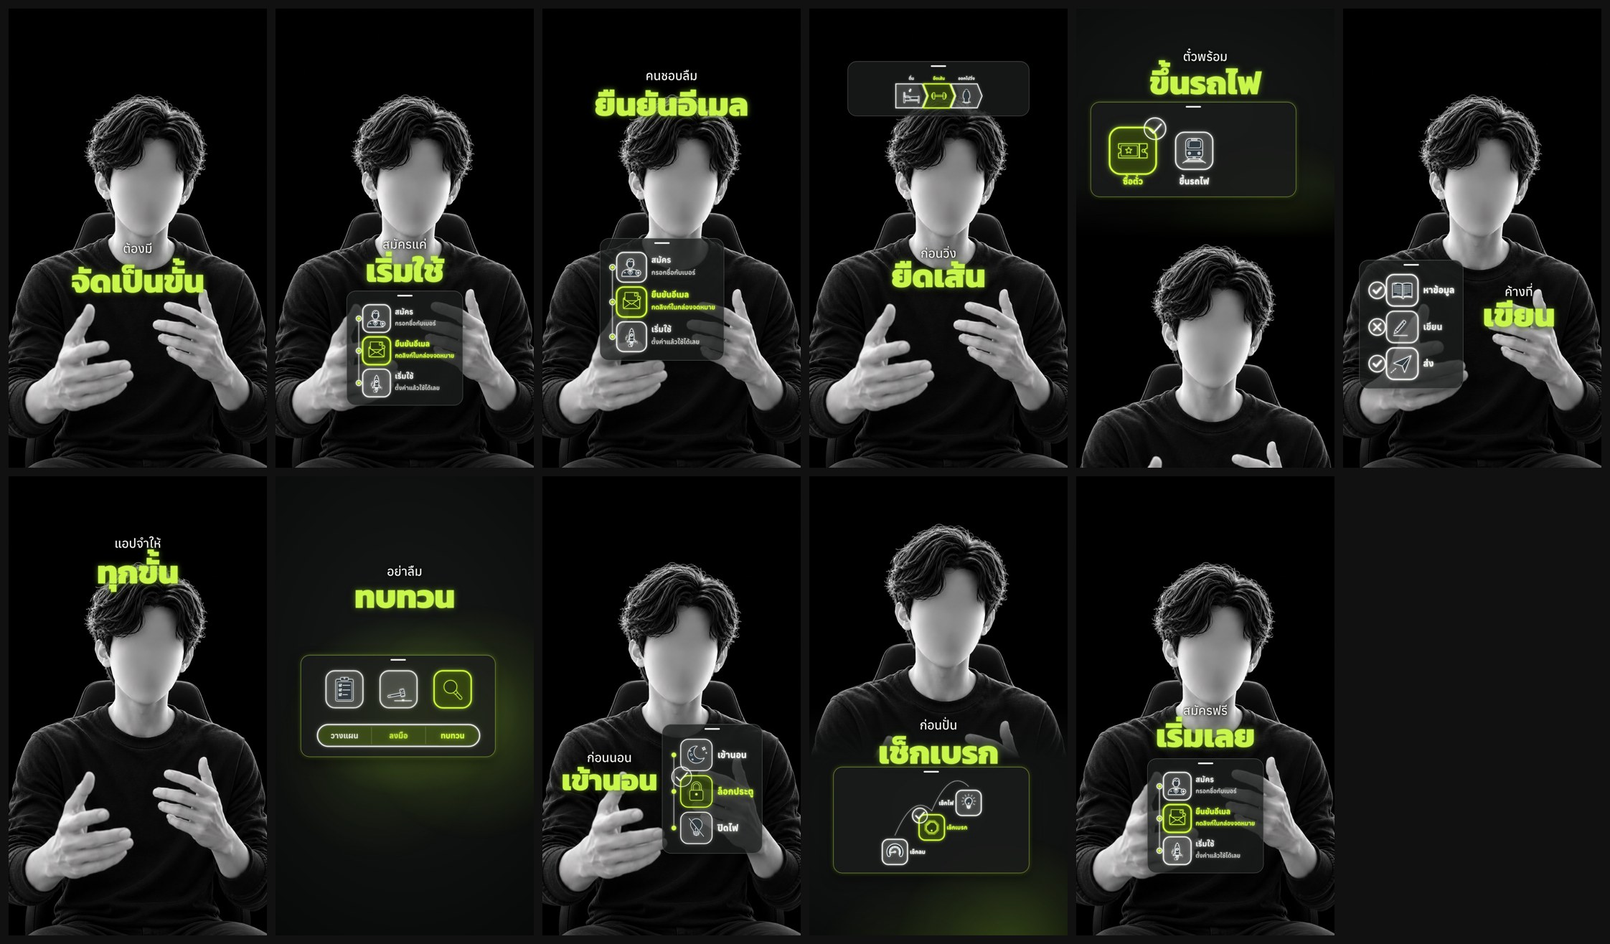
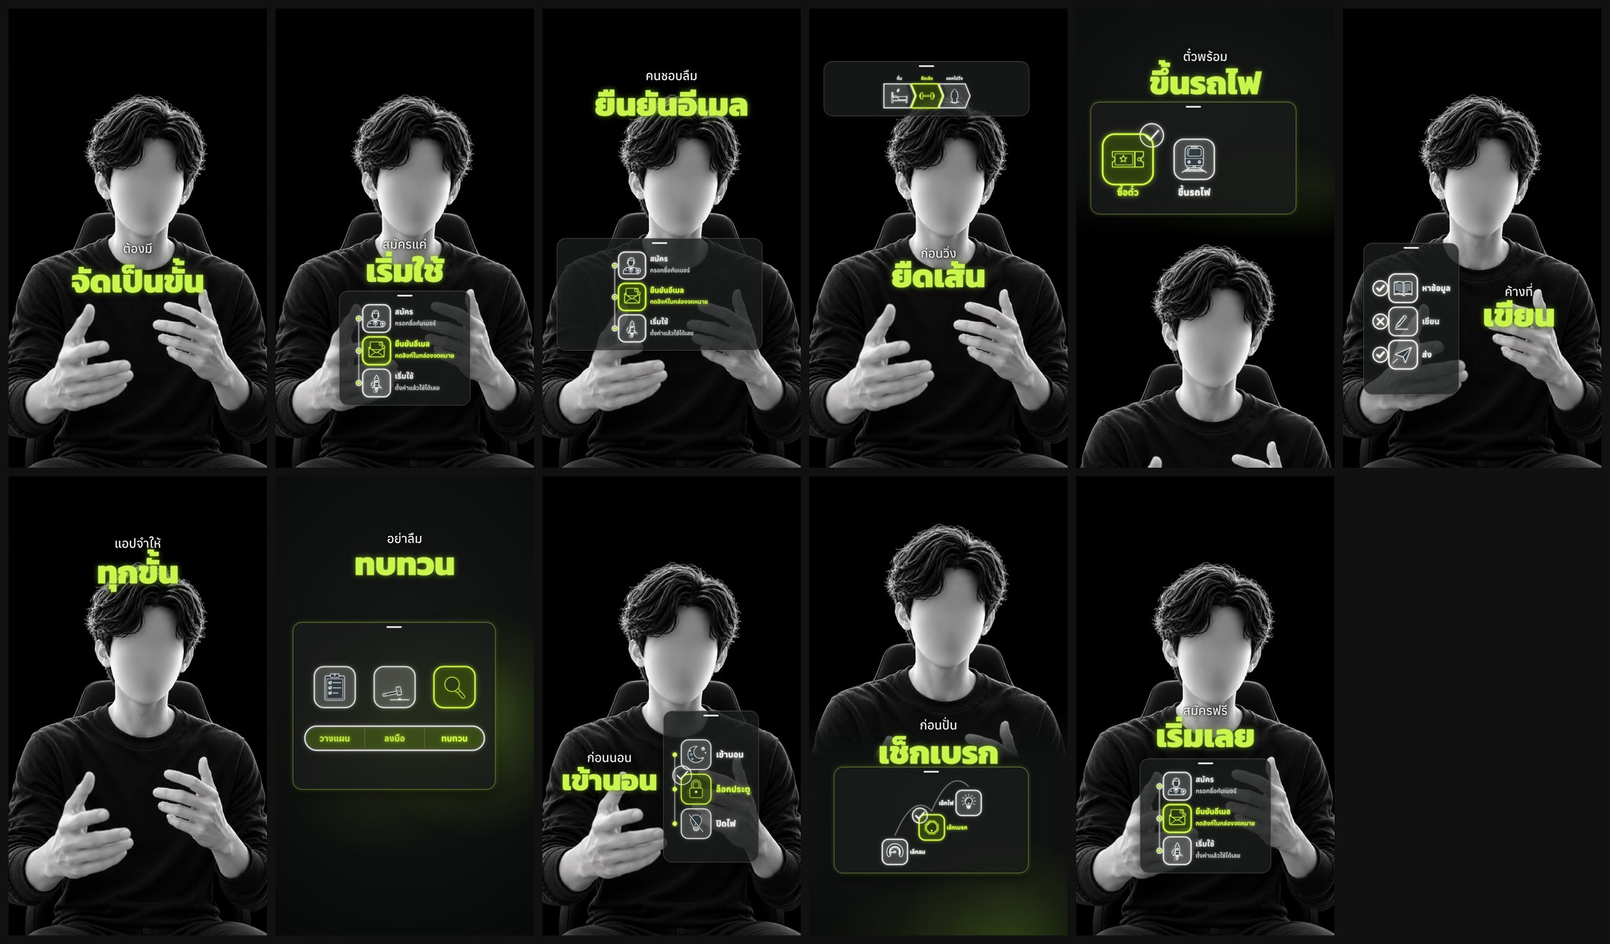
CutPack lime: the card is the standard size exactly (corner scaling, padding inside), no picture-size rule; skill files, still sheet, card_sizes tool
Claude-Session: https://claude.ai/code/session_014abtgtcHE3XvfD3rToZist

diff --git a/cutpack/engine/uni/styles/lime.js b/cutpack/engine/uni/styles/lime.js
@@ -60,7 +60,7 @@ const LIME_HIGH = {talk_top: ['lead', 'key'], big: ['lead', 'key']};
 const LIME_ANCHOR = {hands: 'top', cta: 'top', big: 'top', screen: 'top', split_top: 'top', split_bottom: 'top', top: 'bottom', side_l: 'center', side_r: 'center'};
 /* THE 6 STANDARD MOTION-GRAPHIC SIZES (Friend 2026-11-19, common.md 4.1 · lime.md 16: "ผมเลยอยากกำหนดมาตรฐานขนาดของ motion graphic" ·
    "เราจะฟิกขนาดของ motion graphic เฉยๆเราไม่ได้จะมาดีไซน์สไตล์ใหม่"): the picture is one of the standard sizes, scaled from the corner between
-   65% and 100% to the room this face leaves (the first size of the screen's order that fits); the card is the picture + its padding, at the
+   65% and 100% to the room this face leaves (the first size of the screen's order that fits); the card IS that size (padding inside), at the
    screen's old anchor; under 65% for every size of the order = the screen does not come up in this clip (limeRoom). The dark screen's card sits
    in the middle of the screen with its words moved up, the key word still 150 over the card (Friend: "ฉากนี้ต้องอยู่กึ่งกลางจอ ตรงกลางเลยนะ ...
    เว้นระยะห่างกับซับไตเติ้ลเหมือนเดิม" → "แบบนี้โอเคครับ"). */
@@ -68,17 +68,16 @@ const LIME_STD = {1: [860, 230], 2: [860, 470], 3: [560, 490], 4: [400, 635], 5:
 const LIME_ORDER = {hands: [3, 2, 1], cta: [3, 2, 1], big: [2, 1], top: [2, 3, 1], split_top: [2, 3], side_l: [4], side_r: [4], split_bottom: [2, 1]};
 const LIME_MIN = .65;
 function limeShape(L, ar, name) {
+  /* the CARD is the standard size scaled from the corner (its shape exact), the card's padding inside it, the picture in the padding at its own
+     shape (Friend 2026-11-19: "แบบนี้มันไม่ได้ย่อตรงมุมนี่" · "ขนาดของการ์ดอ่ะมันก็คือ motion graphic ในสไตล์ที่ไม่มีการ์ด" · "การ์ดดูโล่งได้
+     เพราะเดี๋ยวจะทำภาพชุดใหม่" · "แก้ได้ครับ"); returns null when no size of the screen's order reaches 65% here */
   if (!L.card) return L;
-  /* the picture inside the standard box at its own shape, the card around the picture (lime.md 4.3, final 2026-11-18: the card follows the picture) */
-  const card = (k, s) => { const [W, H] = LIME_STD[k], bw = W * s, bh = H * s, r = ar || bw / bh, pw = r > bw / bh ? bw : bh * r, ph = r > bw / bh ? bw / r : bh;
-    return [Math.round(pw + 52), Math.round(ph + 70), Math.round(bw + 52), Math.round(bh + 70), Math.sqrt(pw * ph / (W * H))]; };   // the last: how big the PICTURE is against the full size
+  const size = (k, s) => LIME_STD[k].map(v => Math.round(v * s));
   if (name === 'screen') {                                        // 5 (wide) or 6 (tall) by the picture's shape, in the middle of the screen
-    const near = Math.abs(Math.log((ar || 1.21) / 1.21)) <= Math.abs(Math.log((ar || 1.21) / .89)) ? 5 : 6;
-    const gap = L.card[1] - (L.key.y + 95), lk = L.key.y - L.lead.y, maxH = 2 * (960 - (220 + 40 + lk + 95 + gap));   // the words never under the search bar
-    const k = [near, 11 - near].find(k => { const [W, H] = LIME_STD[k], s = Math.min(1, (860 - 52) / W, (maxH - 70) / H); return s >= LIME_MIN && card(k, s)[4] >= LIME_MIN; });
-    if (!k) return null;
-    const [W, H] = LIME_STD[k], s = Math.min(1, (860 - 52) / W, (maxH - 70) / H);
-    const [cw, ch] = card(k, s), ny = Math.round(960 - ch / 2);   // the card's own middle on the screen's middle
+    const k = Math.abs(Math.log((ar || 1.21) / 1.21)) <= Math.abs(Math.log((ar || 1.21) / .89)) ? 5 : 6, [W, H] = LIME_STD[k];
+    const gap = L.card[1] - (L.key.y + 95), lk = L.key.y - L.lead.y, maxH = 2 * (960 - (220 + 40 + lk + 95 + gap));   // 100%, smaller only when the words would reach the search bar
+    const s = Math.min(1, 860 / W, maxH / H); if (s < LIME_MIN) return null;
+    const [cw, ch] = size(k, s), ny = Math.round(960 - ch / 2);
     L.card = [Math.round(Math.min(Math.max(540 - cw / 2, 60), 920 - cw)), ny, cw, ch]; L.stage = limeInner(L.card);
     L.key.y = ny - gap - 95; L.lead.y = L.key.y - lk; if (L.bloom) L.bloom = [540, 960]; L.std = [k, s];
     return L;
@@ -90,12 +89,10 @@ function limeShape(L, ar, name) {
   if (name === 'side_l') X1 = Math.min(920, L.lead.x - L.lead.maxW / 2 - 20);   // not into the words beside the card
   if (name === 'side_r') X0 = Math.max(60, L.lead.x + L.lead.maxW / 2 + 20);
   for (const k of LIME_ORDER[name] ?? [2]) {
-    const [W, H] = LIME_STD[k], s = Math.min(1, (X1 - X0 - 52) / W, (Y1 - Y0 - 70) / H);
+    const [W, H] = LIME_STD[k], s = Math.min(1, (X1 - X0) / W, (Y1 - Y0) / H);
     if (s < LIME_MIN) continue;
-    const [cw, ch, bw, bh, big] = card(k, s), cx = x + w / 2;
-    if (big < LIME_MIN) continue;                                   // a picture of another shape would come out under 65% of this size
-    const by = a === 'bottom' ? Y1 - bh : Y0, ny = a === 'bottom' ? by + bh - ch : a === 'center' ? by + (bh - ch) / 2 : by;   // at the screen's anchor inside the box
-    L.card = [Math.round(Math.min(Math.max(cx - cw / 2, X0), X1 - cw)), Math.round(ny), cw, ch]; L.stage = limeInner(L.card);
+    const [cw, ch] = size(k, s), cx = x + w / 2;
+    L.card = [Math.round(Math.min(Math.max(cx - cw / 2, X0), X1 - cw)), Math.round(a === 'bottom' ? Y1 - ch : Y0), cw, ch]; L.stage = limeInner(L.card);
     L.std = [k, s];
     return L;
   }

diff --git a/cutpack/engine/uni/tools/card_sizes.js b/cutpack/engine/uni/tools/card_sizes.js
@@ -15,7 +15,7 @@ const STD = {1: [860, 230], 2: [860, 470], 3: [560, 490], 4: [400, 635], 5: [860
       const q = c?.getBoundingClientRect(); return {std: c?.dataset.std ?? null, card: c ? R(c) : null, stage: R(st), xy: q ? [q.left, q.top] : null}; }, t0);
     const [k, s] = (r.std ?? '').split(':'), box = k ? STD[k].map(v => Math.round(v * s)) : null;
     if (process.argv[3] && k) {
-      const [cw, ch] = r.card, [bw, bh] = [box[0] + 52, box[1] + 70], [x, y] = r.xy, a = name === 'top' ? 'bottom' : /side|screen/.test(name) ? 'center' : 'top';
+      const [cw, ch] = r.card, [bw, bh] = box, [x, y] = r.xy, a = name === 'top' ? 'bottom' : /side|screen/.test(name) ? 'center' : 'top';
       const bx = x + cw / 2 - bw / 2, by = a === 'bottom' ? y + ch - bh : a === 'center' ? y + ch / 2 - bh / 2 : y;
       await p.evaluate(([bx, by, bw, bh, x, y, cw, ch, lab]) => { document.querySelectorAll('.cs-mark').forEach(e => e.remove());
         const d = (css, t = '') => { const e = document.createElement('div'); e.className = 'cs-mark'; e.style.cssText = 'position:fixed;z-index:999;box-sizing:border-box;' + css; e.textContent = t; document.body.appendChild(e); };

diff --git a/cutpack/DECISIONS.md b/cutpack/DECISIONS.md
@@ -463,6 +463,7 @@
             - **Friend 2026-11-19: "ข้อ 2 ถ้าทรัพย์[ซับ]มันจะไปชนแถบค้นหาก็ลดขนาดของการ์ดก็ได้" · "ส่วนข้อ 1 ผมงง"** → ฉาก screen: การ์ดกลางจอ ซับห่างเท่าเดิม · 100% ถ้าซับไม่ชนแถบค้นหา · ถ้าชน ลดขนาดการ์ด (ตรงมุม) จนซับพอดี · ข้อ 1 Claude อธิบายใหม่
             - **Friend 2026-11-19 (ตอบข้อ 1): "การ์ดดูโล่งได้ เพราะเดี๋ยวจะทำภาพชุดใหม่"** → Claude ตีความ = เอากฎ "ภาพจริงต้องได้ 65%" ออก (เหลือ 65% ของการ์ด) · ทวนให้ Friend ในข้อความ · รอสั่งแก้
             - **Friend 2026-11-19: "อธิบายข้อ 4 ครับผมงง"** (ขอบการ์ดอยู่ข้างในกล่องมาตรฐาน) → Claude อธิบาย · **"ส่งรูปให้ดูหน่อย"** → ภาพก่อน/หลัง (ขนาด 2) · **"ลองทำรูปแบบเอาโมชั่นกราฟฟิกจริงๆใส่เข้าไปข้างในด้วย"** → ภาพนิ่ง 12 รูปจากสำเนาโค้ด (การ์ด = กล่องมาตรฐานเป๊ะ · ขอบข้างใน · ไม่มีกฎภาพ 65% · screen กลางจอ ย่อเมื่อซับชนแถบค้นหา) · ผลบนภาพคนจำลอง: hands ขนาด 3 66% · cta ขนาด 3 65% · split_top ขนาด 2 100% · side ขนาด 4 88% · split_bottom ขนาด 2 95% · screen ขนาด 5 99% · ขนาด 6 73% · big top talk_top ไม่ขึ้น · repo ยังไม่แก้
+            - **Friend 2026-11-19 (ภาพก่อน/หลังเรื่องขอบการ์ด ใส่ motion graphic จริง): "แก้ได้ครับ"** → ลงโค้ด `styles/lime.js`: การ์ด = กล่องมาตรฐานเป๊ะ (ลากมุม) ขอบอยู่ข้างใน · เอากฎภาพ 65% ออก · screen กลางจอ 100% ย่อเมื่อซับชนแถบค้นหา · แก้ไฟล์สกิล · ทดสอบคลิปที่ 3 ส่งเป็นรูป · **ทำแล้ว:** ภาพนิ่ง 11 ok 0 หลุด · คลิปที่ 3 (seed 786722 คำตอบ AI เดิม) การ์ดเท่ากล่องทุกใบ ±1 px · screen 99% · ขนาด 6 73% · side 83–100% · hands/cta 79–85% · `lime.md` 4.3 16 · `common.md` 4.1 · `02_lime_final.jpg` ใหม่ · `card_sizes.js` กรอบ = การ์ด
           - **Friend 2026-11-19 (หลังคลิปที่ 3 · Claude สรุปเรื่องที่รอ 4 ข้อ: hook 3 วินาทีเป็นกฎไหม · เสียงประกอบ −6 dB เป็นค่าใหม่ไหม · 5 ขนาด · final สไตล์ไหนต่อ): "ข้อ 1 2 4 เอาไว้ก่อนครับมาคุยเรื่องข้อ 3 กันดีกว่า"** → พัก hook 3 วินาที · เสียงประกอบ · final สไตล์ถัดไป · คุยเรื่อง 5 ขนาดของ motion graphic ก่อน (จดตามที่ Friend พิมพ์ ยังไม่แก้)
           - **คลิปเปรียบเทียบ (Friend 2026-11-19): "เอาคลิปที่ผมพูดว่าน่าจะมีหลายคนที่ติดกับดักเหมือนผม ทำเป็นคลิปเปรียบเทียบ raw กับ AI Edit" · "ห้ามใส่ชื่อ cutpack" · "Raw อยู่ด้านซ้ายขนาดเล็กกว่า ai edit อยู่ด้านขวาขนาดใหญ่กว่า" · "คำว่า AI edit ทำให้เด่นหน่อยนะ" · "และคลิป compare แบบนี้ก็ทำให้เข้า theme กับสไตล์ด้วย"** → คลิปที่ 2 (93.7 วินาที) · AI Edit = รุ่นล่าสุดที่ Friend สั่งเรนเดอร์ (ภาพขึ้นใน 3 วินาทีแรก) · ธีมเขียวมะนาว (พื้นถ่าน แสงเขียว การ์ดมีขีดจับ คำ "AI EDIT" Kanit หนาสีเขียวเรือง) · 1080 × 1920 · วิดีโอทั้งสองอยู่ใน x 60–920 (ไม่เข้าโซนปุ่ม) · เสียงจาก AI Edit · ไม่มีชื่อ CutPack · ทำนอก repo (คลิปของ Friend) · **ผล:** Raw 284 × 504 ในการ์ดถ่าน (x 60–372) ป้าย "Raw" Anuphan 600 54 px ขาว · AI Edit 496 × 882 ในการ์ดขอบเขียวเรือง (x 396–920) ป้าย "AI EDIT" Kanit 800 134 px `#C9F64B` เรืองเขียว · พื้นถ่าน + แสงเขียว 2 ดวง (นิ่ง) แบบเขียวมะนาว · มุมวิดีโอมน 24 · 93.7 วินาที 31 MB ส่งแล้ว · ทำด้วย HTML (playwright) + ffmpeg ใน scratchpad
         - **คลิปที่ 2 ของเขียวมะนาว (Friend 2026-11-19 ส่งลิงก์ Drive `1EmgGYG8v_9GILyt8vxDqmLTDX1r-81GV` + บทพร้อมเวลา 95 บรรทัด "00:00 ผมคิดว่า" … "01:32 ให้ทุกคนฟังนะครับ"): "ตัดต่อคลิปนี้ตาม skill เขียวมะนาว" · "เสร็จแล้วส่งไฟล์ HQ ให้ผมด้วยนะครับ"** → คำสั่งตรงให้ตัดต่อและเรนเดอร์ (ไม่ต้องส่งรูปก่อน) · ทำตาม `common.md` ขั้น 1–8 + `lime.md` final ไม่แก้โค้ด · คลิป 93.7 วินาที 1080 × 1920 60 fps (MOV) · คลิปและบทอยู่ใน scratchpad เท่านั้น (LESSONS 30) · ส่งไฟล์ HQ ทางแชท (`pipeline.sh hq`) · **ผล:** seed 239287 · 16 ภาพ 57% ของคลิป · จอ ข ทั้งหมด (หน้าใหญ่ จอ ก วางไม่ได้) · ภาพเฉลี่ย 15% · 0 หลุดโซน · −14.1 LUFS · ส่งไฟล์ HQ 91 MB แล้ว · **Claude ตัดสินระหว่างทำ (บอก Friend):** แก้ซับของ Haiku 3 จุดที่คำท้ายประโยคหลุดบรรทัด (LESSONS 73)

diff --git a/cutpack/style-rules/lime.md b/cutpack/style-rules/lime.md
@@ -79,8 +79,9 @@
 - เปิดคลิป: สไตล์นี้ยังไม่มี `openFace` → ประเด็นแรกเป็นคนพูดเสมอ (`common.md` ข้อ 3)
 
 ### 4.3 การ์ดตามทรงของภาพ (`limeShape`, Friend: "ทำให้ความกว้างน้อยลงแล้วก็ทำให้ความสูงสูงขึ้น ... อยากให้แก้ระบบด้วยเลย")
-- **2026-11-19: กล่องของภาพ = ขนาดมาตรฐาน (หัวข้อ 16) × 65–100%** ตามที่ว่างจากจุดเกาะ ถึง y 1660 (จอแบ่งบน: ถึงเส้นแบ่ง − 12 · `top`: ระหว่าง 220 กับห้องเหนือหัวของ `limeFit` · `side`: ไม่ล้ำซับข้างการ์ด) ใน x 60–920
-- การ์ดจริง = ภาพทรงจริง (`cpShape`) ที่ใหญ่ที่สุดในกล่องนั้น + ขอบการ์ด 52 × 70 · **ภาพจริงต้องได้อย่างน้อย 65% ของขนาดเต็ม** (√(พื้นที่ภาพ ÷ พื้นที่ขนาด 100%)) ไม่ถึง = ขนาดสำรองถัดไป · หมดลำดับ = ฉากนี้ไม่ขึ้นกับภาพนี้ (`limeStage` คืน null · `frame` ตัดออกจากกอง)
+- **2026-11-19 (แทนกฎเดิม): การ์ด = ขนาดมาตรฐาน (หัวข้อ 16) × 65–100% เป๊ะ ย่อขยายตรงมุม สัดส่วนเท่ากล่อง** (Friend: "แบบนี้มันไม่ได้ย่อตรงมุมนี่" · "ขนาดของการ์ดอ่ะมันก็คือ motion graphic ในสไตล์ที่ไม่มีการ์ด") · ที่ว่างนับจากจุดเกาะ ถึง y 1660 (จอแบ่งบน: ถึงเส้นแบ่ง − 12 · `top`: ระหว่าง 220 กับห้องเหนือหัวของ `limeFit` · `side`: ไม่ล้ำซับข้างการ์ด) ใน x 60–920
+- **ขอบการ์ดอยู่ข้างในการ์ด** (ซ้ายขวา 26 · บน 44 · ล่าง 26) · ภาพวาดในพื้นที่ภาพตามทรงของตัวเอง วางกลาง · **การ์ดดูโล่งได้** เมื่อทรงของภาพชุดเก่าไม่ตรง (Friend: "การ์ดดูโล่งได้ เพราะเดี๋ยวจะทำภาพชุดใหม่") · ไม่มีกฎขนาดของตัวภาพ
+- การ์ดเล็กกว่า 65% ทุกขนาดในลำดับ = ฉากนี้ไม่ขึ้นในคลิปนี้ (`limeRoom` · `limeStage` คืน null)
 - วางกลางซ้าย-ขวาของพื้นที่ · แนวตั้งชิดด้านที่ติดคำ (`LIME_ANCHOR`: บน = `hands` `cta` `big` `screen` `split_top` `split_bottom` · ล่าง = `top` · กลาง = `side_l` `side_r`)
 - ใช้ทั้งคลิปจริงและภาพนิ่ง · ภาพเต็มการ์ดเสมอ
 
@@ -184,6 +185,7 @@ NODE_PATH=$(npm root -g) bash tools/clip_all_styles.sh $W lime                  
 
 - ภาพนิ่งทดลอง (ภาพคนจำลองใหม่ ระยะพอดี · สำเนาโค้ดใน scratchpad): hands/cta ขนาด 1 94% · big top talk_top ไม่ขึ้น (เหนือหัวไม่มีที่) · split_top ขนาด 2 94% · side ขนาด 4 77% · split_bottom ขนาด 2 80%
 - โค้ด: `LIME_STD` `LIME_ORDER` `LIME_MIN` `limeShape` `limeRoom` `limeStage` ใน `styles/lime.js` · `fit_pick` ใช้กล่องมาตรฐาน (`fitSize` → `limeStage`) · ภาพนิ่ง 11 ช็อต (`l11` ตัดออก) `library/styles/02_lime_final.jpg` ทำใหม่ (ภาพคนจำลอง)
-- ผลคลิปจริงหลังลงโค้ด (ไม่เรนเดอร์ · `build_only` + `picture_sizes`): คลิปที่ 3 (seed 449159) ภาพเฉลี่ย 9% → 11% · จอ ก การ์ดที่มือ 5–10% · จอถ่าน 17–19% · ภาพข้างตัวไม่ขึ้นแล้ว (ภาพที่เลือกได้ต่ำกว่า 65% ของขนาด 4) · คลิปที่ 2 (seed 239287) 15% เท่าเดิม (จอ ข ทั้งคลิป) · 0 หลุดโซน 0 สีกลืน
+- **ผลล่าสุด (การ์ด = กล่องมาตรฐานเป๊ะ · คลิปที่ 3 ทดสอบระบบ seed 786722 · `tools/card_sizes.js`):** การ์ดเท่ากล่องทุกใบ (±1 px) · screen ขนาด 5 99% (848 × 700) 5 ครั้ง · ขนาด 6 73% (624 × 700) · side ขนาด 4 83–100% · hands/cta ขนาด 3 79–85% · split_bottom ขนาด 2 95% · เส้นที่วาดจริงเฉลี่ย 10% ของจอ (ภาพชุดเก่าไม่เต็มการ์ด) · 0 หลุดโซน · 1 เส้นสี 2.43:1
+- ผลรอบก่อน (การ์ดหดตามภาพ ใช้ไม่ได้แล้ว): คลิปที่ 3 (seed 449159) ภาพเฉลี่ย 9% → 11% · จอ ก การ์ดที่มือ 5–10% · จอถ่าน 17–19% · ภาพข้างตัวไม่ขึ้นแล้ว (ภาพที่เลือกได้ต่ำกว่า 65% ของขนาด 4) · คลิปที่ 2 (seed 239287) 15% เท่าเดิม (จอ ข ทั้งคลิป) · 0 หลุดโซน 0 สีกลืน
 - ข้อสังเกต: `picture_sizes` วัดเส้นที่วาดจริง ซึ่งเล็กกว่ากล่องของภาพ (แบบภาพมีที่ว่างในตัว)
 

diff --git a/cutpack/style-rules/common.md b/cutpack/style-rules/common.md
@@ -143,7 +143,7 @@ NODE_PATH=$(npm root -g) node tools/picture_sizes.js $W/st_<สไตล์>
 
 ## 4.1 มาตรฐานขนาด motion graphic 6 ขนาด (ตกลงกับ Friend 2026-11-19 · ลงโค้ดแล้ว: เขียวมะนาว)
 ที่มา: การ์ดในสไตล์ที่มีการ์ดทำให้ภาพเล็กมาก (Friend: "ปัญหาที่เจอตอนนี้คือสไตล์ที่มีการ์ดอ่ะ motion graphic มันเล็กมากเมื่ออยู่ในการ์ด") · คำพูดเต็มทุกข้อ: DECISIONS "ขนาดของ motion graphic"
-- **ขนาดของตัว motion graphic ไม่ใช่การ์ด** · การ์ด = ภาพ + ขอบของสไตล์ · ใช้ได้ทุกสไตล์ (มีการ์ดหรือไม่มี)
+- **ขนาดนี้คือพื้นที่ของ motion graphic** · สไตล์ที่มีการ์ด: การ์ด = ขนาดนี้เป๊ะ ขอบการ์ดอยู่ข้างใน · สไตล์ไม่มีการ์ด: ตัวภาพ = ขนาดนี้ (Friend 2026-11-19: "ขนาดของการ์ดอ่ะมันก็คือ motion graphic ในสไตล์ที่ไม่มีการ์ด") · ใช้ได้ทุกสไตล์ · ภาพชุดเก่าในคลังไม่เต็มพื้นที่ได้ ("การ์ดดูโล่งได้ เพราะเดี๋ยวจะทำภาพชุดใหม่")
 
 | ขนาด | ทรง | ใหญ่สุด 100% | เล็กสุด 65% | ใช้ที่ไหน |
 |---|---|---|---|---|
